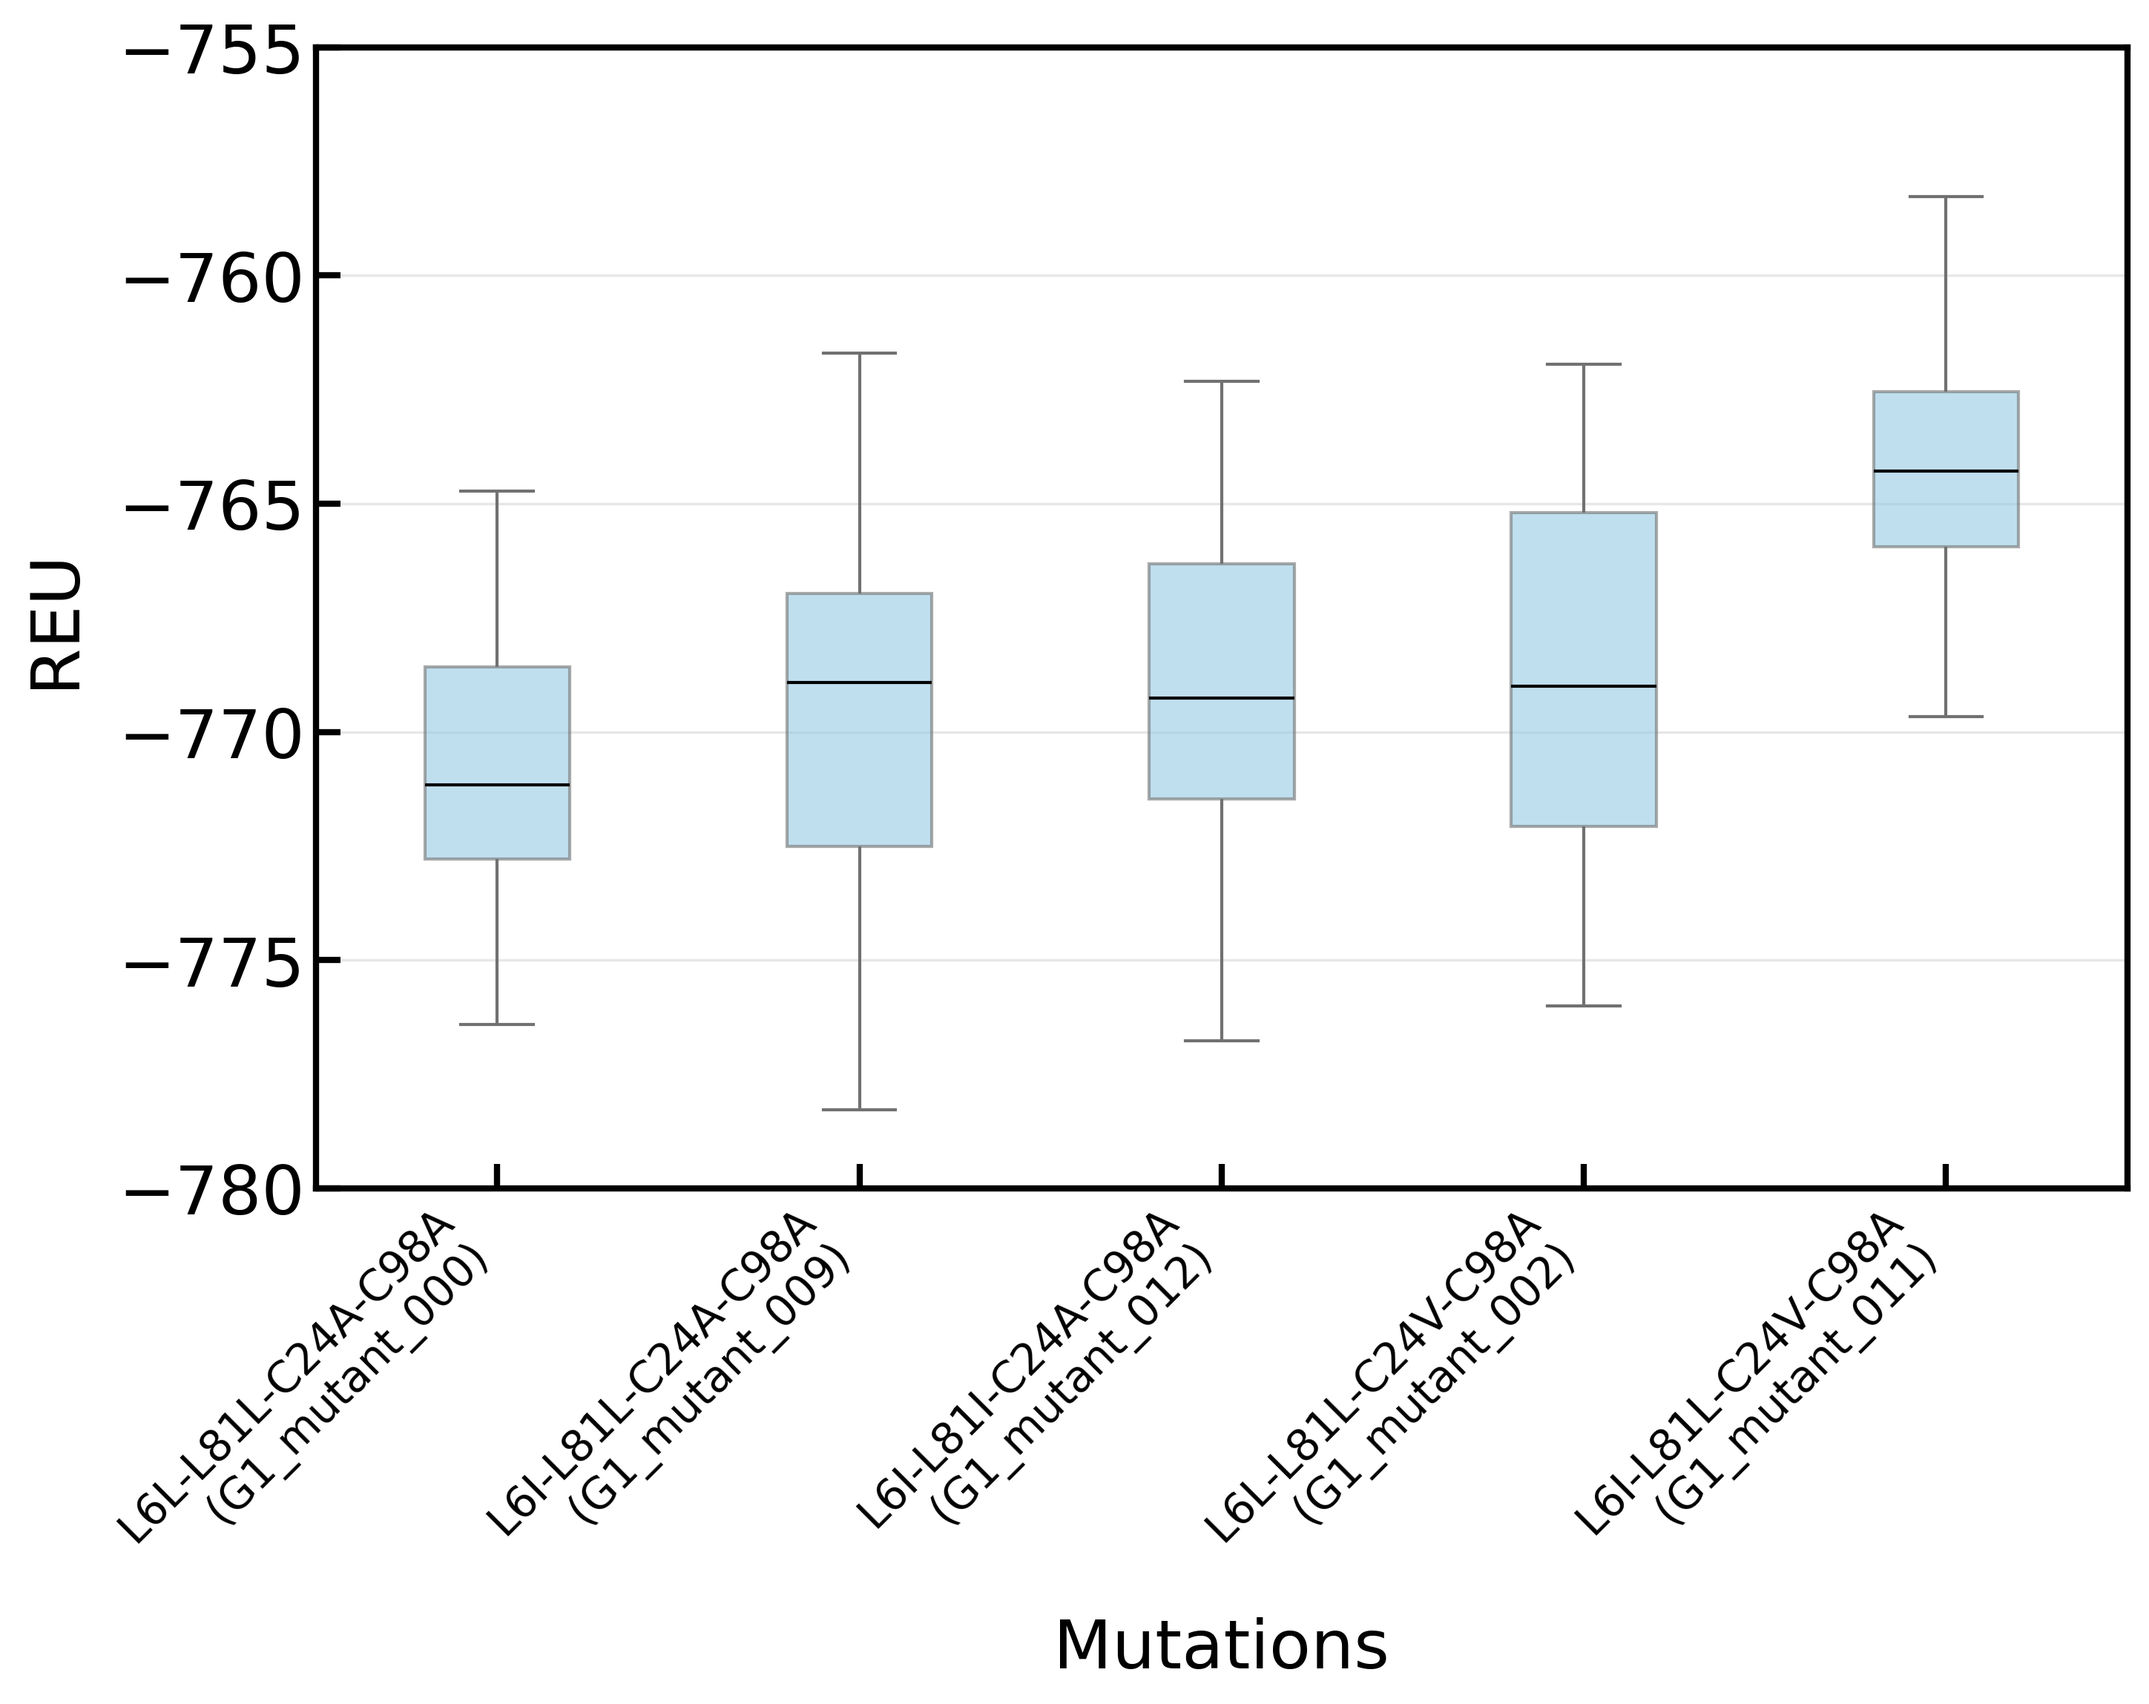
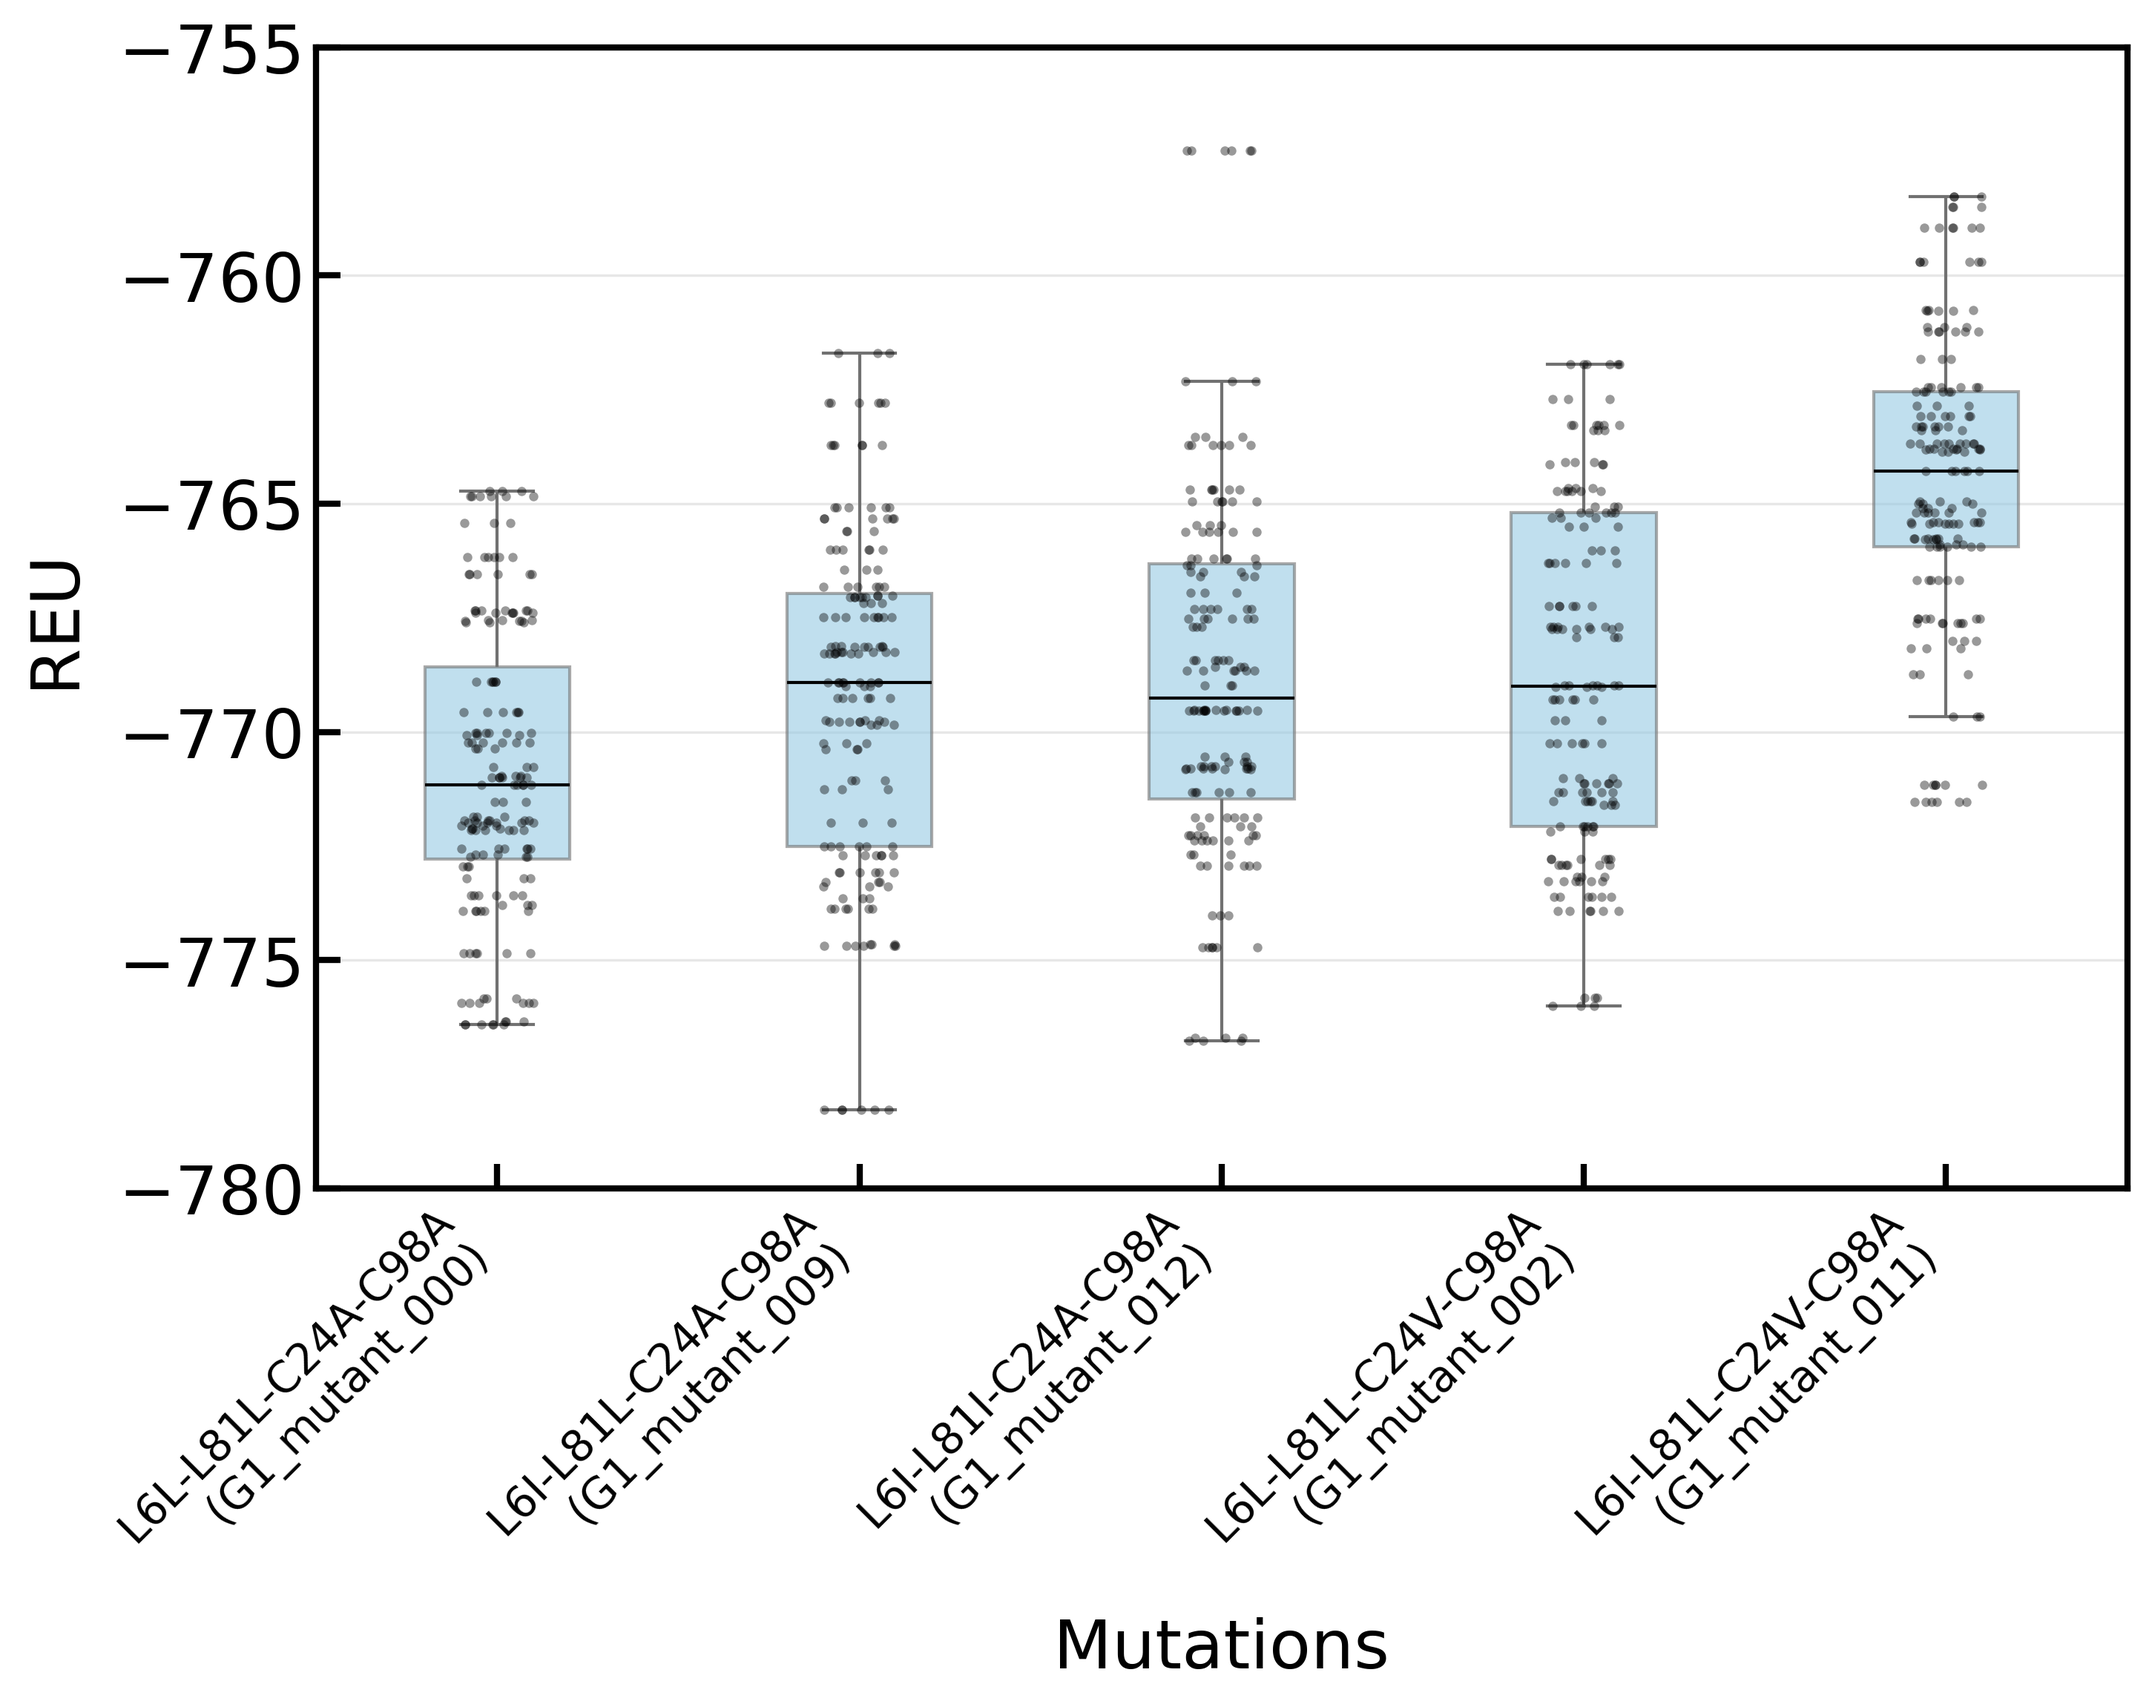
feat: restore stripplot to display individual data points on fastrelax charts

diff --git a/scripts/analysis/plot_fastrelax_results.py b/scripts/analysis/plot_fastrelax_results.py
@@ -181,8 +181,7 @@ def main():
             boxprops=dict(alpha=0.6)
         )
 
-        # 2. Overlay individual data points (Strip plot) - Disabled per user request
-        """
+        # 2. Overlay individual data points (Strip plot)
         sns.stripplot(
             data=group_df_melted,
             x='plot_label',
@@ -193,7 +192,6 @@ def main():
             jitter=True,
             alpha=0.4
         )
-        """
 
         # 3. Add terminal output for numerical mean and median
         print(f"\n--- Statistics for Group {group} ---")
